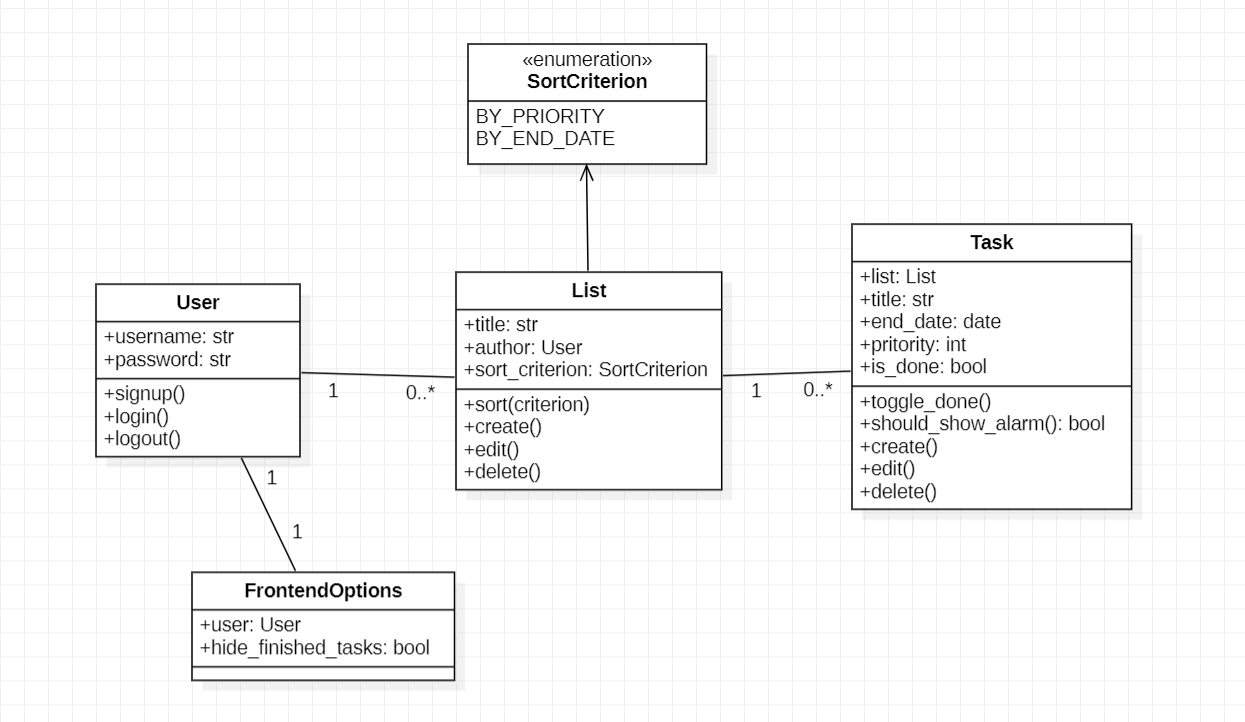
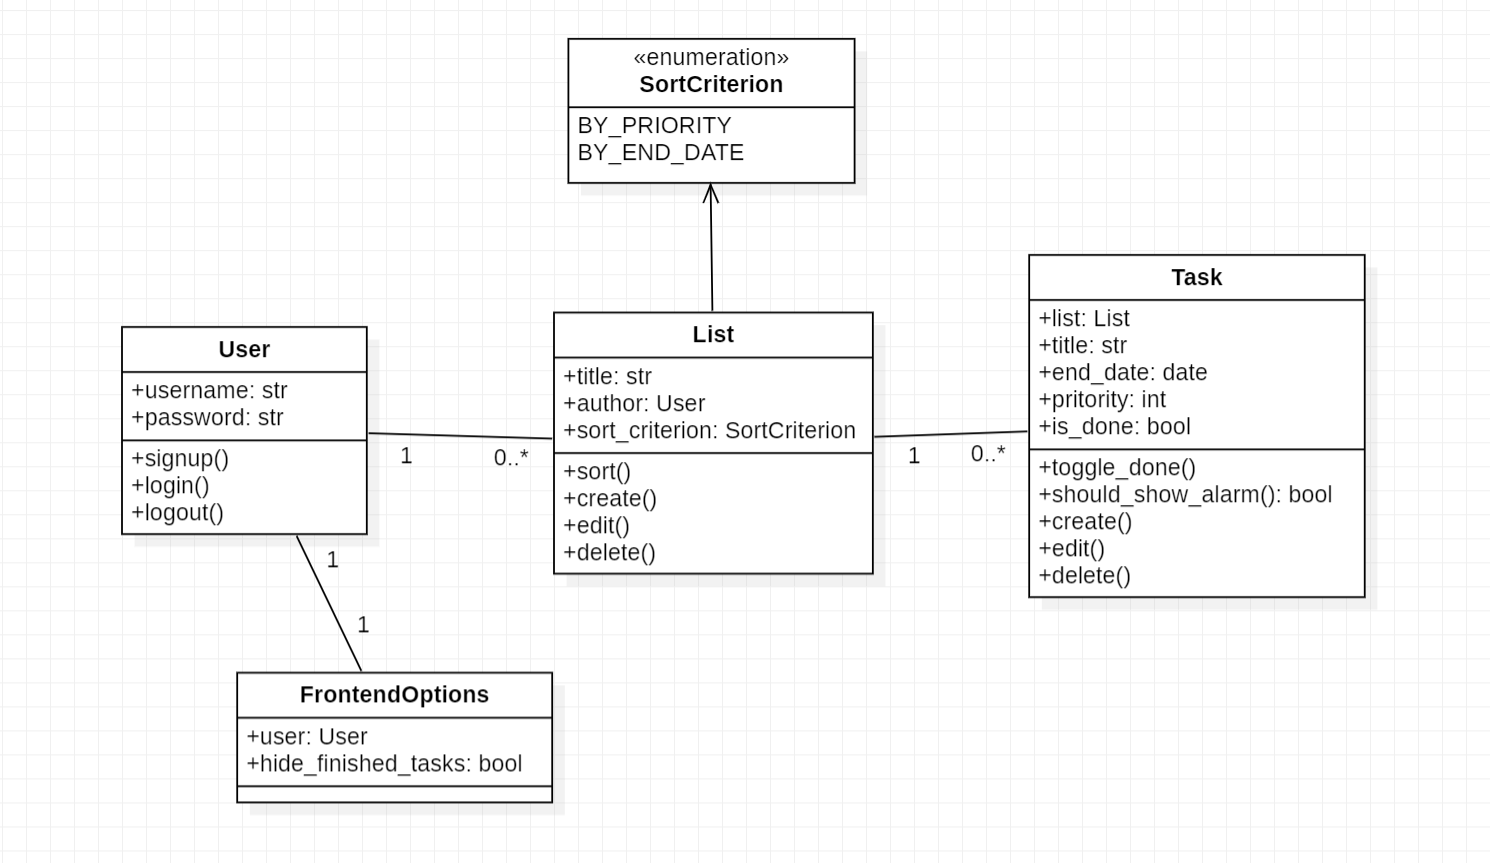
design: minor change on `List.sort()` (it does not have a parameter anymore)

Changed region(s): [[0.061, 0.0305, 0.9157, 0.7313], [0.1526, 0.7008, 0.3968, 0.9446]]

diff --git a/docs/설계명세서/설계명세서.md b/docs/설계명세서/설계명세서.md
@@ -27,7 +27,7 @@
 - `edit()`: void
 - `delete()`: void
 
-- `sort(criterion)`: 할 일들을 정렬한다.
+- `sort()`: 할 일들을 정렬한다.
 
 ### Task
 각 할 일의 정보를 담고있는 클래스
